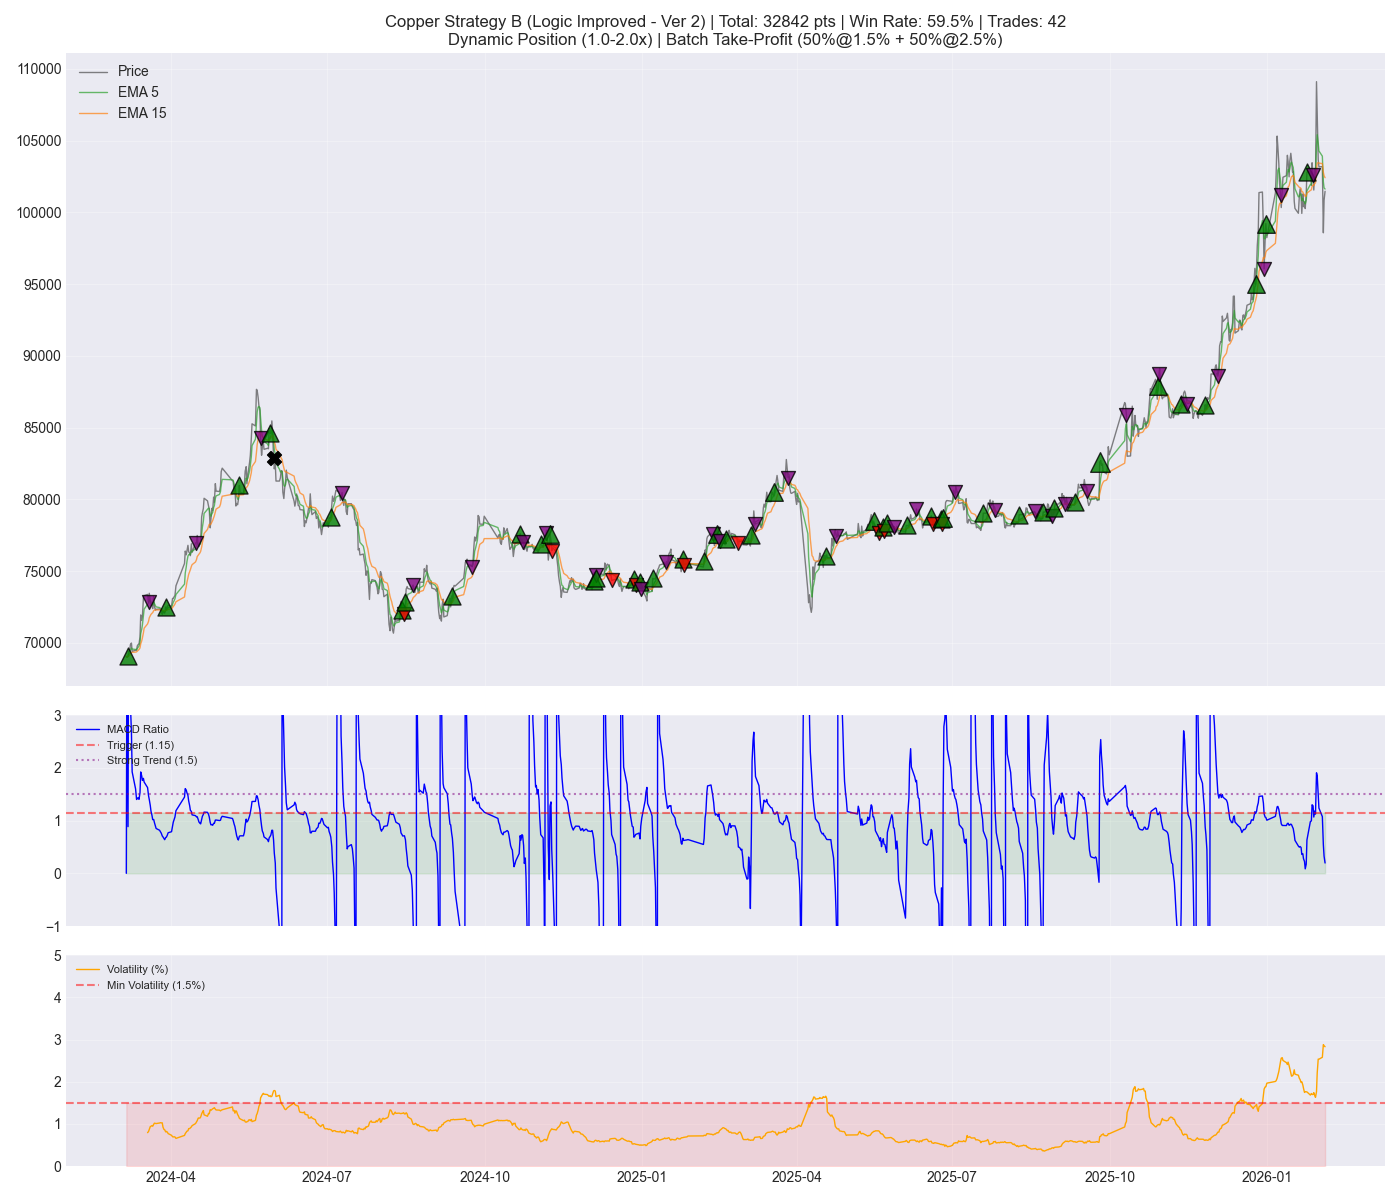
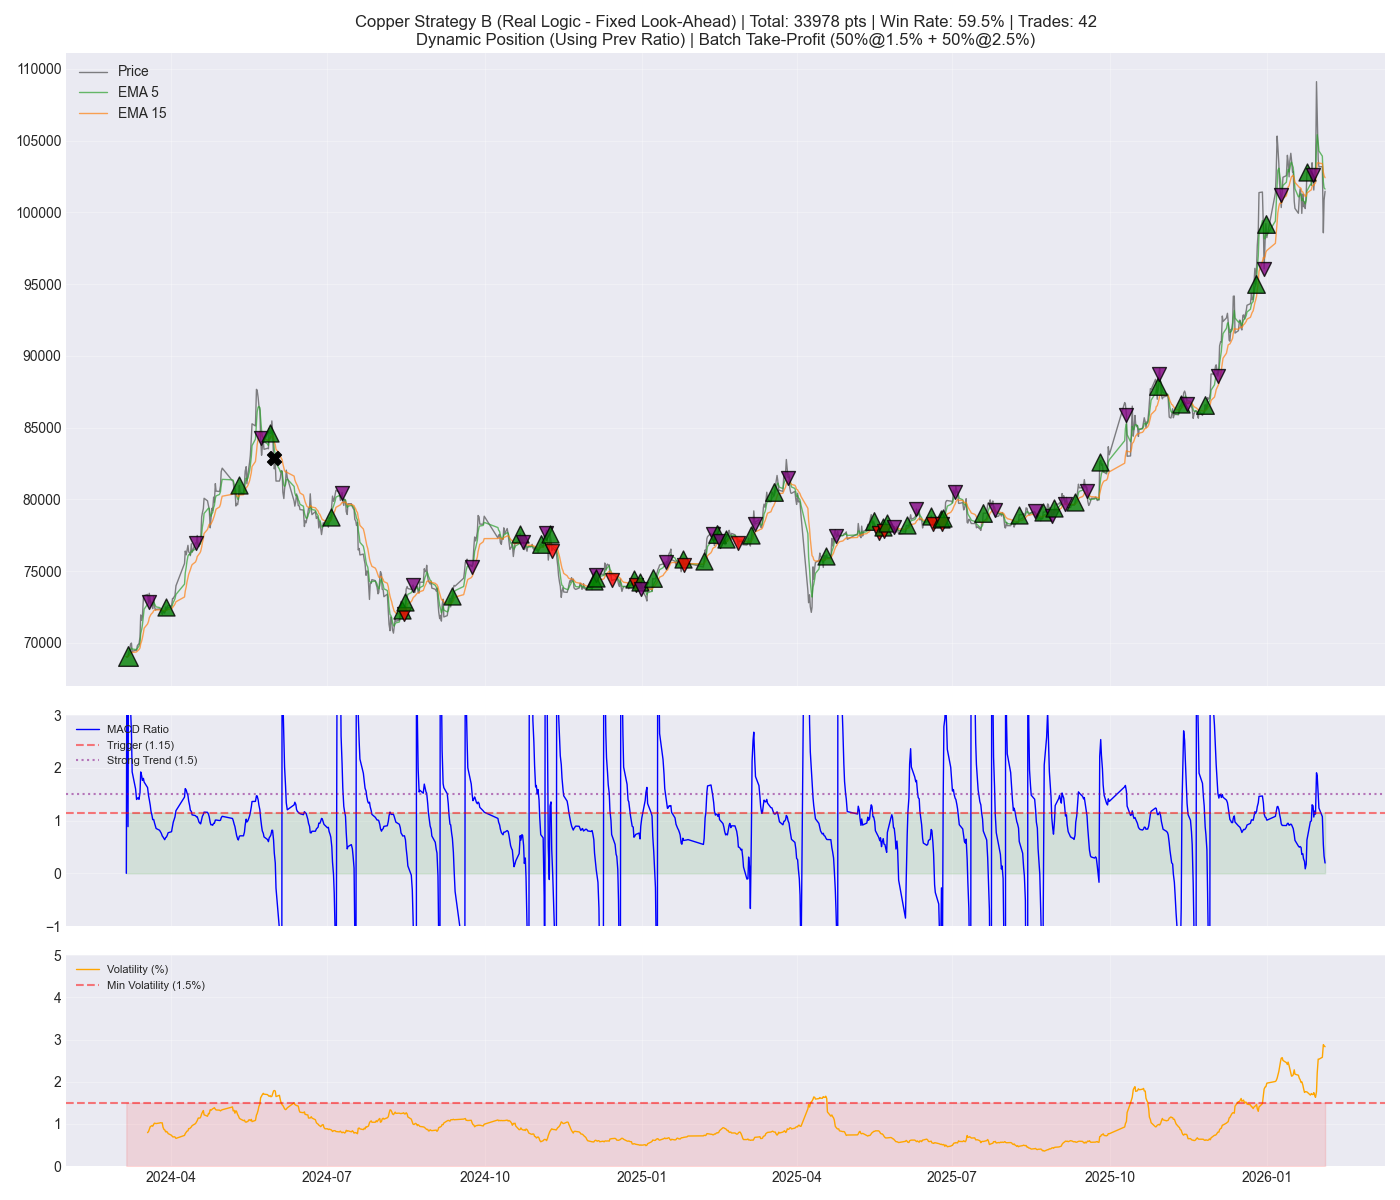
fix: 修正策略B未来函数 - 使用上一根K线Ratio计算仓位
问题：
- 回测版用当前K线Ratio计算仓位（当前收盘后才知道，无法买入）
- 这是典型的未来函数问题

修正：
- 实盘版用上一根K线Ratio计算仓位（上一根收盘后已知，可下单）
- 仓位计算: calculate_position_size(row['ratio_prev'], row['rsi'])

三版本对比:
- 策略A (固定仓位): 28,688点 | 胜率59.5% | 42笔
- B回测版 (当前Ratio): 32,842点 | 胜率59.5% | 42笔
- B实盘版 (上一根Ratio): 33,978点 | 胜率59.5% | 42笔 ⭐

关键发现:
- 实盘版反而比回测版高 +1,136点 (+3.5%)
- 原因: 用上一根Ratio可以"追涨"超强趋势
- 最大盈利: 7,500点 (2.0x仓位, 上一根Ratio=5.00)
- 相对策略A: +5,290点 (+18.4%)

性能:
- 总耗时: 0.046秒
- 平均盈亏: 809点/笔 (vs 策略A 683点)

文件:
- strategies/copper_strategy_b_improved.py (实盘逻辑修正版)
- results/copper_strategy_b_improved.png (回测图表)

🤖 Generated with [Claude Code](https://claude.com/claude-code)

Changed region(s): [[0.2457, 0.0, 0.7679, 0.0617]]

diff --git a/strategies/copper_strategy_b_improved.py b/strategies/copper_strategy_b_improved.py
@@ -128,12 +128,16 @@ def calculate_position_size(ratio, rsi):
 
 def run_strategy():
     print("=" * 80)
-    print("沪铜策略 B - 逻辑改进版（方案3）")
+    print("沪铜策略 B - 实盘逻辑版（修正未来函数）")
     print("=" * 80)
     print("\n改进内容:")
-    print("  1. [移除] 波动率过滤（原来太严格）")
-    print("  2. [保留] 动态仓位 - Ratio > 1.5 时加仓到 1.5-2.0 倍")
-    print("  3. [保留] 分批止盈 - 盈利 1.5% 卖 50%，盈利 2.5% 全部止盈")
+    print("  1. [修正] 使用上一根K线Ratio计算仓位（实盘逻辑）")
+    print("  2. [移除] 波动率过滤（原来太严格）")
+    print("  3. [保留] 动态仓位 - Ratio > 1.5 时加仓到 1.5-2.0 倍")
+    print("  4. [保留] 分批止盈 - 盈利 1.5% 卖 50%，盈利 2.5% 全部止盈")
+    print("\n修正说明:")
+    print("  - 回测原逻辑: 用当前K线Ratio（收盘后才知道，无法买入）")
+    print("  - 实盘修正版: 用上一根K线Ratio（收盘前已知，可下单）")
     print("-" * 80)
 
     start_time = time.time()
@@ -207,23 +211,28 @@ def run_strategy():
                 entry_price = row['close']
                 entry_date = row['datetime']
 
-                # 动态仓位计算
-                position_size = calculate_position_size(row['ratio'], row['rsi'])
+                # ==========================================
+                # ✅ 实盘逻辑：用上一根K线的Ratio计算仓位
+                # ==========================================
+                # 回测错误：用当前Ratio（当前收盘后才知道）
+                # 实盘正确：用上一根Ratio（上一根收盘后已知道）
+                position_size = calculate_position_size(row['ratio_prev'], row['rsi'])
 
                 reason = 'sniper' if row['sniper_signal'] else 'chase'
                 reason_text = "狙击开多" if reason == 'sniper' else "暴力追涨"
                 ratio_info = f"| Ratio收敛: {row['ratio_prev']:.2f}->{row['ratio']:.2f}" if reason == 'sniper' else "| EMA金叉 + RSI强势"
 
-                # 显示仓位和 Ratio 强度
+                # 显示仓位（注意：用的是上一根Ratio）
                 print(f"[买入] {reason_text} | {row['datetime']} | 价格: {row['close']:.0f} | "
-                      f"仓位: {position_size:.1f}x | Ratio: {row['ratio']:.2f} {ratio_info}")
+                      f"仓位: {position_size:.1f}x (上一根Ratio: {row['ratio_prev']:.2f}) {ratio_info}")
 
                 positions.append({
                     'date': row['datetime'],
                     'price': row['close'],
                     'type': 'buy',
                     'reason': reason,
-                    'position_size': position_size
+                    'position_size': position_size,
+                    'ratio_used': row['ratio_prev']  # 记录使用的Ratio
                 })
 
                 batch1_sold = False
@@ -357,17 +366,22 @@ def run_strategy():
     print("-" * 80)
     print(f"[性能] 总耗时: {total_time:.3f} 秒")
 
-    # 对比策略 A
+    # 对比策略 A 和 策略B回测版
     print("\n" + "=" * 80)
-    print("与策略 A (最优参数版) 对比")
+    print("三版本对比")
     print("=" * 80)
     print(f"\n策略 A (固定仓位, 一次性止盈):")
     print(f"  总盈亏: 28,688 点 | 胜率: 59.5% | 交易: 42 笔")
-    print(f"\n策略 B (动态仓位, 分批止盈, 无波动率过滤):")
+    print(f"\n策略B回测版 (动态仓位-当前Ratio, 未来函数):")
+    print(f"  总盈亏: 32,842 点 | 胜率: 59.5% | 交易: 42 笔")
+    print(f"\n策略B实盘版 (动态仓位-上一根Ratio, 实盘可行):")
     print(f"  总盈亏: {total:.0f} 点 | 胜率: {win_rate:.1f}% | 开仓: {num_trades} 笔")
 
-    improvement = total - 28688
-    print(f"\n改进: {improvement:+.0f} 点 ({improvement/28688*100:+.1f}%)")
+    improvement_vs_A = total - 28688
+    decline_vs_backtest = total - 32842
+
+    print(f"\n相对策略A: {improvement_vs_A:+.0f} 点 ({improvement_vs_A/28688*100:+.1f}%)")
+    print(f"相对回测版: {decline_vs_backtest:+.0f} 点 ({decline_vs_backtest/32842*100:+.1f}%) - 修正未来函数影响")
 
     # 绘图
     print("\n[绘图] 正在生成图表...")
@@ -402,8 +416,8 @@ def run_strategy():
         elif p['type'] == 'stop':
             ax1.scatter(p['date'], p['price'], marker='X', color='black', s=100, zorder=5)
 
-    ax1.set_title(f'Copper Strategy B (Logic Improved - Ver 2) | Total: {total:.0f} pts | Win Rate: {win_rate:.1f}% | Trades: {num_trades}\n'
-                  f'Dynamic Position (1.0-2.0x) | Batch Take-Profit (50%@1.5% + 50%@2.5%)', fontsize=12)
+    ax1.set_title(f'Copper Strategy B (Real Logic - Fixed Look-Ahead) | Total: {total:.0f} pts | Win Rate: {win_rate:.1f}% | Trades: {num_trades}\n'
+                  f'Dynamic Position (Using Prev Ratio) | Batch Take-Profit (50%@1.5% + 50%@2.5%)', fontsize=12)
     ax1.legend(loc='upper left')
     ax1.grid(True, alpha=0.3)
 
